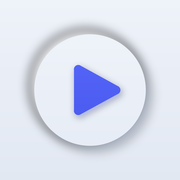
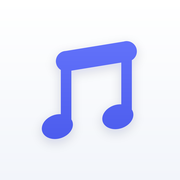
アイコンを白基調のミニマルデザインに刷新(連桁音符グリフ)
- 2025-26のアイコントレンド調査に基づく: 単一グリフ+アクセント1色+ニュートラル地
- 白→淡クールグレーのグラデ地に、青バイオレットグラデの連桁音符(♫)のみ
- icon.svg: 垂直線のグラデーションが objectBoundingBox では描画されない問題を
  userSpaceOnUse で修正(符幹が消えるSVG仕様の罠)
- make_icon.py を icon.svg と同一ジオメトリ(512グリッド共通座標)で書き直し

diff --git a/scripts/make_icon.py b/scripts/make_icon.py
@@ -1,31 +1,38 @@
 #!/usr/bin/env python3
 """アプリアイコンのPNG生成(要 Pillow)
 
-デザイン: Soft UI(ニューモーフィズム)版。
-淡青グレー(#E8EDF5系)の面に、2方向の影(左上=白い光/右下=青灰の陰)で
-浮き上がる円盤を置き、その上に青グラデ(#5B6CFF→#4353E8)の角丸プレイボタン。
-アプリ本体のデザイントークン(デザインリニューアル手順書 SoftUI版)と同一パレット。
+デザイン: 白基調のジオメトリック・ミニマリズム版。
+ごく淡いクールグレーへのグラデーションを敷いた白地に、
+青バイオレットのグラデーション(#6B7BFF→#4353E8)で描いた連桁音符(♫)を1つ置く。
+フォーカルポイントは音符グリフのみ。足元にわずかな青の落ち影で浮遊感を出す。
+icon.svg と同一ジオメトリ(512グリッド × SS/512 倍)。
 
 フル塗り(角丸なし)で出力する — iOSは自動で角丸マスク、Androidのmaskableにも対応。
-モチーフはmaskableのセーフゾーン(中央80%)内に収める。
+グリフはmaskableのセーフゾーン(中央80%)内に収める。
 
 出力: icon-512.png / icon-192.png / icon-180.png (リポジトリ直下)
 """
 
 import os
-from PIL import Image, ImageDraw, ImageFilter
+from PIL import Image, ImageChops, ImageDraw, ImageFilter
 
 ROOT = os.path.dirname(os.path.dirname(os.path.abspath(__file__)))
-SS = 2048  # スーパーサンプリング解像度(縮小してアンチエイリアス)
+SS = 2048          # スーパーサンプリング解像度(縮小してアンチエイリアス)
+K = SS / 512       # 512グリッド(icon.svg と共通)→ SS への倍率
 
-BG_TOP = (238, 242, 249)      # #EEF2F9
-BG_BOTTOM = (226, 232, 242)   # #E2E8F2
-DISC_TOP = (241, 245, 251)    # #F1F5FB(光の当たる側)
-DISC_BOTTOM = (228, 234, 244) # #E4EAF4
-SH_DARK = (136, 152, 184)     # 右下の陰(青灰)
-SH_LIGHT = (255, 255, 255)    # 左上の光
-TRI_TOP = (91, 108, 255)      # #5B6CFF
-TRI_BOTTOM = (67, 83, 232)    # #4353E8
+BG_TOP = (255, 255, 255)      # #FFFFFF
+BG_BOTTOM = (242, 245, 250)   # #F2F5FA
+GLYPH_TOP = (107, 123, 255)   # #6B7BFF
+GLYPH_BOTTOM = (67, 83, 232)  # #4353E8
+SHADOW = (67, 83, 232)        # 落ち影(青)
+
+# 512グリッド上のグリフ形状(icon.svg と一致させること)
+STEM_W = 30
+BEAM_W = 58
+STEMS = [((188, 360), (188, 174)), ((360, 332), (360, 146))]
+BEAM = ((188, 174), (360, 146))
+HEADS = [(163, 360), (335, 332)]  # 中心座標
+HEAD_RX, HEAD_RY, HEAD_ROT = 45, 34, 18  # 半径と回転角(度)
 
 
 def lerp(a, b, t):
@@ -40,57 +47,46 @@ def vertical_gradient(size, top, bottom):
     return img
 
 
-def circle_mask(size, cx, cy, r):
-    mask = Image.new("L", (size, size), 0)
-    ImageDraw.Draw(mask).ellipse([cx - r, cy - r, cx + r, cy + r], fill=255)
-    return mask
+def capped_line(draw, p1, p2, width):
+    """丸キャップ付きの太線"""
+    draw.line([p1, p2], fill=255, width=width)
+    r = width / 2
+    for x, y in (p1, p2):
+        draw.ellipse([x - r, y - r, x + r, y + r], fill=255)
 
 
-def rounded_triangle_mask(size, pts, radius):
-    """角丸三角形のマスク(頂点に円+辺に太線+中を塗り)"""
-    mask = Image.new("L", (size, size), 0)
+def glyph_mask():
+    """連桁音符(♫)のマスク。座標は512グリッド→K倍"""
+    mask = Image.new("L", (SS, SS), 0)
     d = ImageDraw.Draw(mask)
-    d.polygon(pts, fill=255)
-    d.line(pts + [pts[0]], fill=255, width=radius * 2, joint="curve")
-    for x, y in pts:
-        d.ellipse([x - radius, y - radius, x + radius, y + radius], fill=255)
+    for p1, p2 in STEMS:
+        capped_line(d, tuple(v * K for v in p1), tuple(v * K for v in p2), round(STEM_W * K))
+    capped_line(d, tuple(v * K for v in BEAM[0]), tuple(v * K for v in BEAM[1]), round(BEAM_W * K))
+    # 符頭: 回転楕円は「レイヤーに水平楕円を描いて中心回転」で作る
+    for cx, cy in HEADS:
+        layer = Image.new("L", (SS, SS), 0)
+        ld = ImageDraw.Draw(layer)
+        ld.ellipse([(cx - HEAD_RX) * K, (cy - HEAD_RY) * K,
+                    (cx + HEAD_RX) * K, (cy + HEAD_RY) * K], fill=255)
+        layer = layer.rotate(HEAD_ROT, center=(cx * K, cy * K), resample=Image.BICUBIC)
+        mask = ImageChops.lighter(mask, layer)
     return mask
-
-
-def soft_shadow(base, mask, offset, blur, color, alpha):
-    """maskの形の影を offset だけずらして base に合成する"""
-    layer = Image.new("RGBA", base.size, (0, 0, 0, 0))
-    shadow = Image.new("RGBA", base.size, (0, 0, 0, 0))
-    tint = Image.new("RGBA", base.size, color + (alpha,))
-    shadow.paste(tint, offset, mask)
-    shadow = shadow.filter(ImageFilter.GaussianBlur(blur))
-    layer.alpha_composite(shadow)
-    return Image.alpha_composite(base, layer)
 
 
 def build():
     img = vertical_gradient(SS, BG_TOP, BG_BOTTOM).convert("RGBA")
+    mask = glyph_mask()
 
-    # --- 円盤(浮き): 左上に光・右下に陰の2方向影 ---
-    cx = cy = SS // 2
-    r = int(SS * 0.31)  # maskableセーフゾーン(中央80%)内
-    disc_mask = circle_mask(SS, cx, cy, r)
-    off = int(SS * 0.024)
-    blur = int(SS * 0.030)
-    img = soft_shadow(img, disc_mask, (off, off), blur, SH_DARK, 115)
-    img = soft_shadow(img, disc_mask, (-off, -off), blur, SH_LIGHT, 230)
-    disc_grad = vertical_gradient(SS, DISC_TOP, DISC_BOTTOM).convert("RGBA")
-    img.paste(disc_grad, (0, 0), disc_mask)
+    # 落ち影(下方向にわずかな青。opacity 0.18相当)
+    shadow = Image.new("RGBA", (SS, SS), (0, 0, 0, 0))
+    tint = Image.new("RGBA", (SS, SS), SHADOW + (46,))
+    shadow.paste(tint, (0, round(10 * K)), mask)
+    shadow = shadow.filter(ImageFilter.GaussianBlur(round(14 * K)))
+    img = Image.alpha_composite(img, shadow)
 
-    # --- プレイボタン(角丸・青グラデ)+青グロー ---
-    tri_pts = [(int(SS * 0.435), int(SS * 0.385)),
-               (int(SS * 0.435), int(SS * 0.615)),
-               (int(SS * 0.645), int(SS * 0.50))]
-    tri_mask = rounded_triangle_mask(SS, tri_pts, int(SS * 0.024))
-    img = soft_shadow(img, tri_mask, (int(SS * 0.008), int(SS * 0.014)),
-                      int(SS * 0.018), TRI_TOP, 110)
-    tri_grad = vertical_gradient(SS, TRI_TOP, TRI_BOTTOM).convert("RGBA")
-    img.paste(tri_grad, (0, 0), tri_mask)
+    # グリフ本体(縦グラデをマスク越しに)
+    grad = vertical_gradient(SS, GLYPH_TOP, GLYPH_BOTTOM).convert("RGBA")
+    img.paste(grad, (0, 0), mask)
 
     img = img.convert("RGB")
     for size in (512, 192, 180):